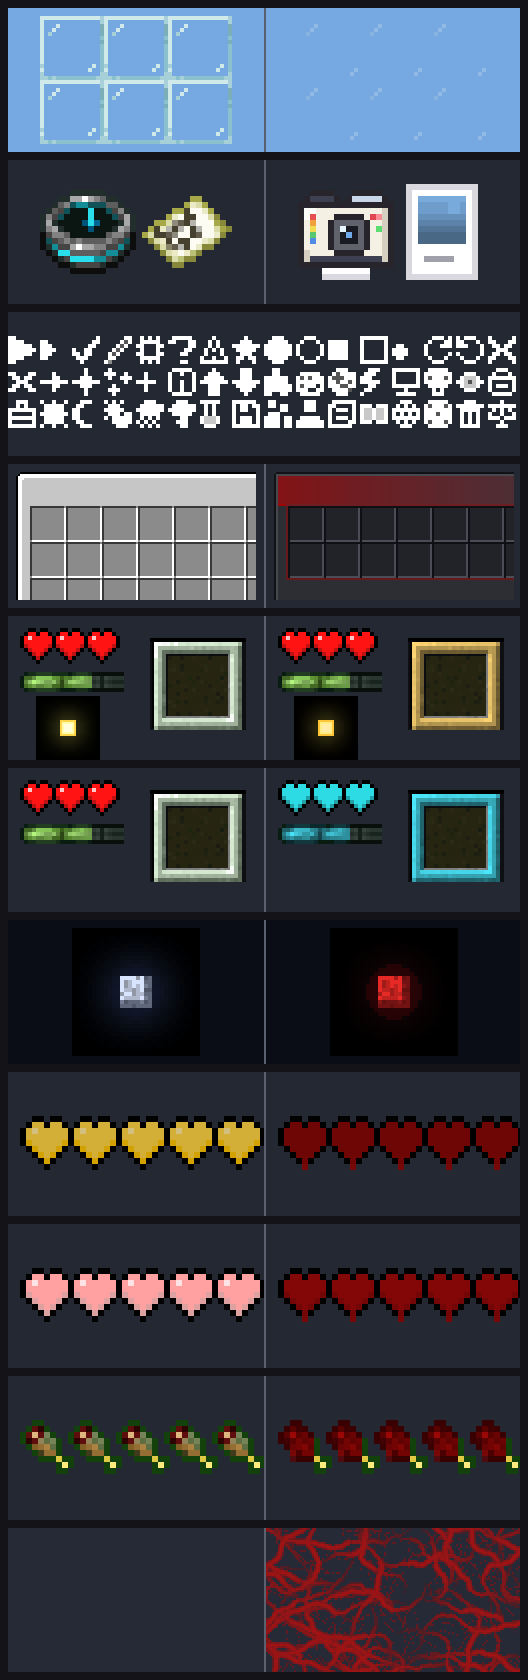
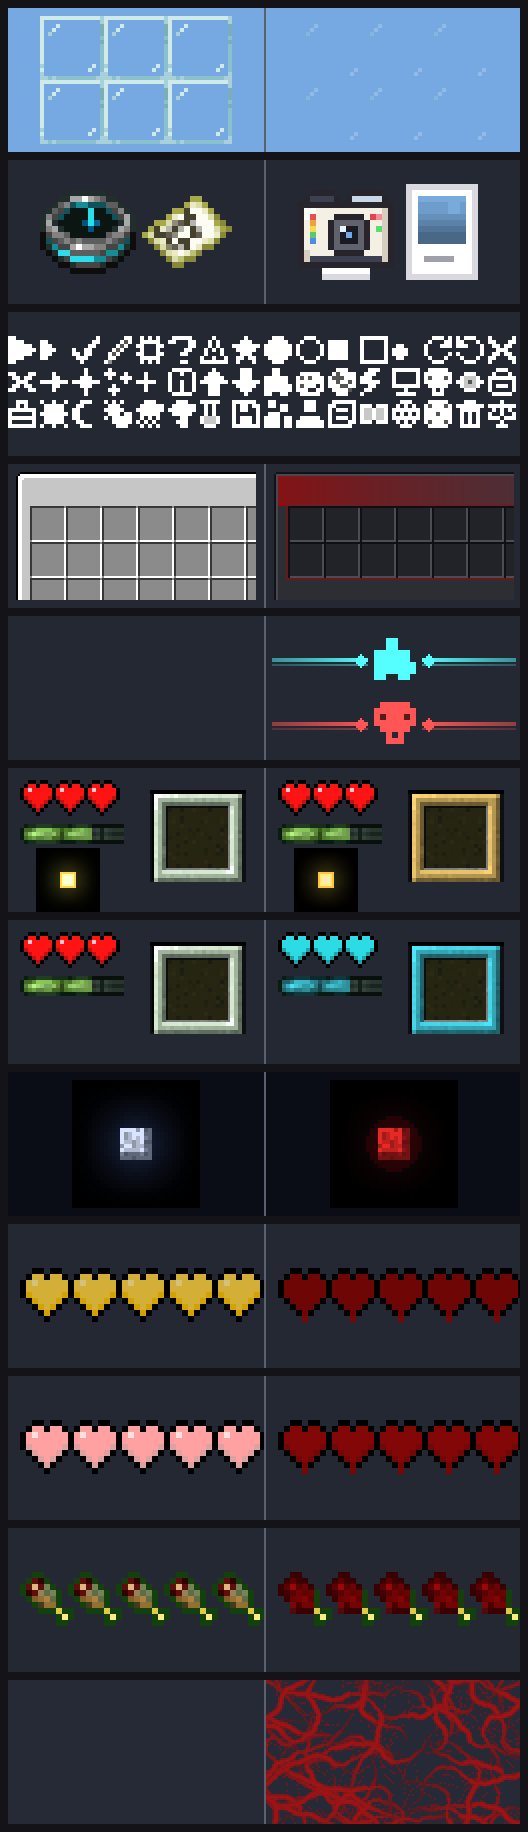
Publish Camera 1.0.0, GlassFrame 2.8.3, ServerUI 1.9.0, ThemeCalm 1.0.0, ThemeHorror 2.3.2, ThemeLab 1.0.0

diff --git a/serverui/build.py b/serverui/build.py
@@ -75,12 +75,13 @@ import zipfile
 import zlib
 
 NAME = "ServerUI"
-VERSION = "1.8.0"         # bumped with ../bump.py, never by hand
+VERSION = "1.9.0"         # bumped with ../bump.py, never by hand
 HERE = pathlib.Path(__file__).parent
 SRC = HERE / "src"
 DIST = HERE / "dist"
-CLIENT_JAR = pathlib.Path.home() / (
-    "Library/Application Support/minecraft/versions/26.2/26.2.jar")
+sys.path.insert(0, str(HERE.parent))
+import themelib as _themelib  # noqa: E402  - the client jar of the version the servers run (MC_VERSION overrides)
+CLIENT_JAR = _themelib.CLIENT_JAR
 PACK_FORMAT_FALLBACK = 88
 
 CELL = 8
@@ -823,6 +824,15 @@ def pack_icon(table):
 GUI_W = 176
 GUI_BASE, GUI_ACCENT, GUI_SPACE = 0xE200, 0xE210, 0xF800
 GUI_ASCENT = 13
+# The hub header banner (1.9.0): two wings that fade outward from the middle, U+E220 (left) and
+# U+E221 (right), and the icon sheet once more at 3x under the SAME characters - so the server
+# writes the hub's own icon between the wings with no code-point table to keep in step
+# ("🧩" in font serverui:gui is the big icon). Sent in the hub's colour; a body row 300 wide.
+BANNER_W, BANNER_H = 132, 24
+BANNER_LEFT, BANNER_RIGHT = 0xE220, 0xE221
+BANNER_ASCENT = 7            # hangs from its line like the previews: the menu pads two blank lines under it
+BIG_SCALE = 3
+BIG_ASCENT = 6                # the 3x art (rows 0-20 of 24) centred on the wings' rule, which sits 5 px under the baseline
 
 
 def gui_height(rows):
@@ -877,15 +887,84 @@ def gui_pictures(rows):
     return (w, h, neutral), (w, h, accent)
 
 
-def gui_font(tex_dir, font_dir=None):
-    """Write the frames and serverui:gui; returns the provider list (for the record)."""
-    providers = [{"type": "space", "advances": {chr(GUI_SPACE + k): -(1 << (k - 1)) for k in range(1, 9)}}]
+def banner_wings():
+    """(left, right) RGBA wings, each (w, h, rows): a double rule that is bright at the icon and fades
+    outward, white so the hub colour tints it. The bright end is the inner one, so the fade never
+    reaches a glyph's edge on the side the client measures the advance from (a trailing transparent
+    column would shorten the left wing)."""
+    w, h = BANNER_W, BANNER_H
+    left = [bytearray(w * 4) for _ in range(h)]
+    mid = h // 2
+    for x in range(w):
+        t = x / (w - 1)                       # 0 at the outer end, 1 at the icon
+        a = int(255 * t ** 1.6)
+        if a == 0:
+            continue
+        left[mid - 1][x * 4:x * 4 + 4] = bytes((255, 255, 255, a))
+        left[mid][x * 4:x * 4 + 4] = bytes((255, 255, 255, a))
+        soft = int(a * 0.45)
+        if soft:
+            left[mid + 2][x * 4:x * 4 + 4] = bytes((255, 255, 255, soft))
+    # a small diamond where the rule meets the icon
+    for dy, span in ((-3, 1), (-2, 2), (-1, 3), (0, 3), (1, 3), (2, 2), (3, 1)):
+        for dx in range(-span + 1, span):
+            x = w - 4 + dx
+            if 0 <= x < w:
+                left[mid + dy][x * 4:x * 4 + 4] = bytes((255, 255, 255, 255))
+    right = [bytearray(b"".join(bytes(r[i * 4:i * 4 + 4]) for i in reversed(range(w)))) for r in left]
+    return (w, h, left), (w, h, right)
+
+
+def banner_composite(icon_rows, tint):
+    """The banner as the client shows it, for the preview: left wing, the icon at 3x, right wing,
+    everything tinted (r, g, b) - 300 px wide like the body row it sits in."""
+    (w, h, left), (_, _, right) = banner_wings()
+    icon_w = max(len(r) for r in icon_rows) * BIG_SCALE
+    gap = 3
+    total = w + gap + icon_w + gap + w
+    out = [bytearray(total * 4) for _ in range(h)]
+    def put(img_rows, ox):
+        for y in range(h):
+            for x in range(len(img_rows[y]) // 4):
+                a = img_rows[y][x * 4 + 3]
+                if a:
+                    out[y][(ox + x) * 4:(ox + x) * 4 + 4] = bytes((*tint, a))
+    put(left, 0)
+    put(right, w + gap + icon_w + gap)
+    oy = (h - CELL * BIG_SCALE) // 2 + 1
+    for y, art in enumerate(icon_rows):
+        for x, px in enumerate(art):
+            if px == ".":
+                continue
+            v = SHADES[px] / 255
+            for dy in range(BIG_SCALE):
+                for dx in range(BIG_SCALE):
+                    X = w + gap + x * BIG_SCALE + dx
+                    out[oy + y * BIG_SCALE + dy][X * 4:X * 4 + 4] = bytes((int(tint[0] * v), int(tint[1] * v), int(tint[2] * v), 255))
+    return total, h, out
+
+
+def gui_font(tex_dir, font_dir=None, icon_chars=None):
+    """Write the frames, the banner wings and serverui:gui; returns the provider list (for the record).
+    `icon_chars` = the icon sheet's char rows: the same sheet joins this font at 3x for the banners."""
+    # negative advances -1, -2, -4 … -128 at U+F801..F808 and positive +1 … +128 at U+F809..F810
+    spaces = {chr(GUI_SPACE + k): -(1 << (k - 1)) for k in range(1, 9)}
+    spaces.update({chr(GUI_SPACE + 8 + k): (1 << (k - 1)) for k in range(1, 9)})
+    providers = [{"type": "space", "advances": spaces}]
     for rows in range(1, 7):
         neutral, accent = gui_pictures(rows)
         for kind, img, cp in (("", neutral, GUI_BASE + rows), ("_accent", accent, GUI_ACCENT + rows)):
             file = f"grid_{rows}{kind}.png"
             (tex_dir / file).write_bytes(_png_encode(*img))
             providers.append({"type": "bitmap", "file": f"serverui:font/{file}", "height": img[1], "ascent": GUI_ASCENT, "chars": [chr(cp)]})
+    left, right = banner_wings()
+    for file, img, cp in (("banner_left.png", left, BANNER_LEFT), ("banner_right.png", right, BANNER_RIGHT)):
+        (tex_dir / file).write_bytes(_png_encode(*img))
+        providers.append({"type": "bitmap", "file": f"serverui:font/{file}", "height": img[1], "ascent": BANNER_ASCENT, "chars": [chr(cp)]})
+    if icon_chars:
+        # the icons at 3x: same picture file, same characters, height 24 - the client scales the cells
+        providers.append({"type": "bitmap", "file": "serverui:font/icons.png",
+                          "height": CELL * BIG_SCALE, "ascent": BIG_ASCENT, "chars": icon_chars})
     # the font is serverui:gui -> assets/serverui/font/gui.json, beside the textures, not under minecraft/
     own_font_dir = tex_dir.parent.parent / "font"
     own_font_dir.mkdir(parents=True, exist_ok=True)
@@ -938,7 +1017,7 @@ def build(version=None):
     (tex_dir / "icons.png").write_bytes(png)
     bars_png, bar_chars = bars()
     (tex_dir / "bars.png").write_bytes(bars_png)
-    gui_font(tex_dir, font_dir)   # serverui:gui - the chest-grid frames, its own font file
+    gui_font(tex_dir, font_dir, char_rows)   # serverui:gui - chest-grid frames, hub banners, its own font file
     import previews as pv
     pictures = pv.previews(png)
     preview_providers = []

diff --git a/serverui/previews.py b/serverui/previews.py
@@ -26,7 +26,7 @@ ASCENT = 7                     # hangs down from the first line: the menu pads 8
 PREVIEWS = {
     "GlassFrame": [("glass", 0xE100)],
     "Camera": [("items", 0xE120)],
-    "ServerUI": [("icons", 0xE101), ("grids", 0xE117)],
+    "ServerUI": [("icons", 0xE101), ("grids", 0xE117), ("banner", 0xE118)],
     "ThemeCalm": [("hud", 0xE102)],
     "ThemeLab": [("hud", 0xE103)],
     # E111 (frozen hearts) and E115 (frost border) are retired: the frozen state is vanilla's again.
@@ -299,6 +299,23 @@ def panel_grids(z):
     return W, H, rows
 
 
+def panel_banner(z):
+    """The hub header banner: nothing on the left (a hub without the pack shows its title and rows
+    only), on the right two banners as two hubs send them - 🧩 Plugins in aqua, ☠ Difficulty in red -
+    at 1x, 300 px squeezed to the panel's half by cropping the outer ends of the wings."""
+    ui = _load("serverui")
+    rows = canvas(HUD_BACK)
+    table = ui.glyphs()
+    half = W // 2 - 6
+    for n, (icon, tint) in enumerate((("🧩", (85, 255, 255)), ("☠", (255, 85, 85)))):
+        w, h, img = ui.banner_composite(table[icon], tint)
+        cut = (w - half) // 2
+        piece = crop((w, h, img), cut, 0, half, h)
+        blit(rows, piece, W // 2 + 1 + 3, 10 + n * 32, 1)
+    divider(rows)
+    return W, H, rows
+
+
 def previews(sheet_png):
     """{(name, key): (w, h, rows)} for every panel in PREVIEWS that can be drawn."""
     z = T.jar()
@@ -315,6 +332,7 @@ def previews(sheet_png):
         out[("ThemeHorror", "hunger")] = panel_food(z, horror)
         out[("ThemeHorror", "veins")] = panel_veins(z, horror)
         out[("ServerUI", "grids")] = panel_grids(z)
+        out[("ServerUI", "banner")] = panel_banner(z)
     out[("ServerUI", "icons")] = preview_serverui(sheet_png)
     return out
 

diff --git a/themelib.py b/themelib.py
@@ -20,7 +20,27 @@ import struct
 import zipfile
 import zlib
 
-CLIENT_JAR = pathlib.Path.home() / "Library/Application Support/minecraft/versions/26.2/26.2.jar"
+MC_VERSIONS = pathlib.Path.home() / "Library/Application Support/minecraft/versions"
+
+
+def server_version(repo=pathlib.Path(__file__).resolve().parent.parent):
+    """The Minecraft version the servers run: MC_VERSION in the environment, else the newest
+    versions/<v>/ the main server has extracted (repo root), else the newest installed client
+    release. Textures must come from the client of the version the servers run, not from
+    whatever snapshot happens to be installed - a 26.3 client jar would put 26.3 sprites and a
+    26.3 pack format into packs served to 26.2."""
+    import os
+    if os.environ.get("MC_VERSION"):
+        return os.environ["MC_VERSION"]
+    found = [p.name for p in (repo / "versions").iterdir() if p.is_dir()] if (repo / "versions").exists() else []
+    if found:
+        return sorted(found, key=lambda v: [int(x) if x.isdigit() else 0 for x in v.split(".")])[-1]
+    releases = [p.name for p in MC_VERSIONS.iterdir() if p.is_dir() and (p / f"{p.name}.jar").exists()
+                and all(x.isdigit() for x in p.name.split("."))] if MC_VERSIONS.exists() else []
+    return sorted(releases, key=lambda v: [int(x) for x in v.split(".")])[-1] if releases else "26.2"
+
+
+CLIENT_JAR = MC_VERSIONS / server_version() / f"{server_version()}.jar"
 PACK_FORMAT_FALLBACK = 88
 
 

diff --git a/glassframe/build.py b/glassframe/build.py
@@ -78,6 +78,7 @@ itself, reissued with its opaque flecks at half alpha - see "the specks" below.
 
 import json
 import pathlib
+import sys
 import shutil
 import zipfile
 
@@ -261,8 +262,9 @@ PANE_SPECK_ALPHA = 128   # 50% - panes, which need more to read the same
 # it; stained panes are already 40-61% in their own textures.
 PANE_TEXTURE = "glassframe_pane"
 
-CLIENT_JAR = pathlib.Path.home() / (
-    "Library/Application Support/minecraft/versions/26.2/26.2.jar")
+sys.path.insert(0, str(pathlib.Path(__file__).resolve().parent.parent))
+import themelib as _themelib  # noqa: E402  - the client jar of the version the servers run (MC_VERSION overrides)
+CLIENT_JAR = _themelib.CLIENT_JAR
 
 
 def _png_decode(data):

diff --git a/README.md b/README.md
@@ -9,7 +9,7 @@ pack.
 |---|---|---|
 | [GlassFrame](glassframe/) | Glass with no borders at all, blocks and panes, so a window or floor reads as one clean sheet. Pairs with a plugin that draws the outline back only where the glass actually stops. | [`GlassFrame-2.8.3-borderless.zip`](glassframe/GlassFrame-2.8.3-borderless.zip) |
 | [Camera](camera/) | The Camera plugin's camera as a cute instant camera - empty, loaded, flashing - and its photos as polaroids tinted with each picture's own colour. Repaints two vanilla item definitions only where the plugin sets `custom_model_data`; real compasses and maps are untouched. | [`Camera-1.0.0.zip`](camera/Camera-1.0.0.zip) |
-| [ServerUI](serverui/) | Pixel icons at the emoji code points the server's dialog menus use, drawn into the default font. Without the pack the menus show the same symbols in Unifont. | [`ServerUI-1.8.0.zip`](serverui/ServerUI-1.8.0.zip) |
+| [ServerUI](serverui/) | Pixel icons at the emoji code points the server's dialog menus use, drawn into the default font. Without the pack the menus show the same symbols in Unifont. | [`ServerUI-1.9.0.zip`](serverui/ServerUI-1.9.0.zip) |
 | [ThemeCalm](themecalm/) | Theme layer for the main server: warm gold hotbar frame, warmer sun, a soft chime on every menu click. | [`ThemeCalm-1.0.0.zip`](themecalm/ThemeCalm-1.0.0.zip) |
 | [ThemeLab](themelab/) | Theme layer for the test server: teal hearts, cyan experience bar and hotbar frame, a digital blip on every menu click. | [`ThemeLab-1.0.0.zip`](themelab/ThemeLab-1.0.0.zip) |
 | [ThemeHorror](themehorror/) | The Haunt plugin's companion layer, loaded all the time and painting only player states: dripping blood hearts, raw drumsticks and blood veins over the screen during its events, a blood moon while the director is armed. | [`ThemeHorror-2.3.2.zip`](themehorror/ThemeHorror-2.3.2.zip) |

diff --git a/CHANGELOG.md b/CHANGELOG.md
@@ -2,6 +2,10 @@
 
 One entry per published version, newest first.
 
+## ServerUI 1.9.0
+
+Hub header banners: fading wings (U+E220/E221) and the icons at 3x in serverui:gui, positive spaces U+F809..F810, preview panel E118
+
 ## ServerUI 1.8.0
 
 chest-grid frames in their own font serverui:gui (a panel and an accent per row count, negative spaces)

diff --git a/serverui/README.md b/serverui/README.md
@@ -3,7 +3,7 @@
 Pixel icons for a Paper server's dialog menus, for Minecraft Java 26.2+, needing
 **no mods**. 2 KB.
 
-Download: [`ServerUI-1.8.0.zip`](ServerUI-1.8.0.zip)
+Download: [`ServerUI-1.9.0.zip`](ServerUI-1.9.0.zip)
 
 ## What it does
 
